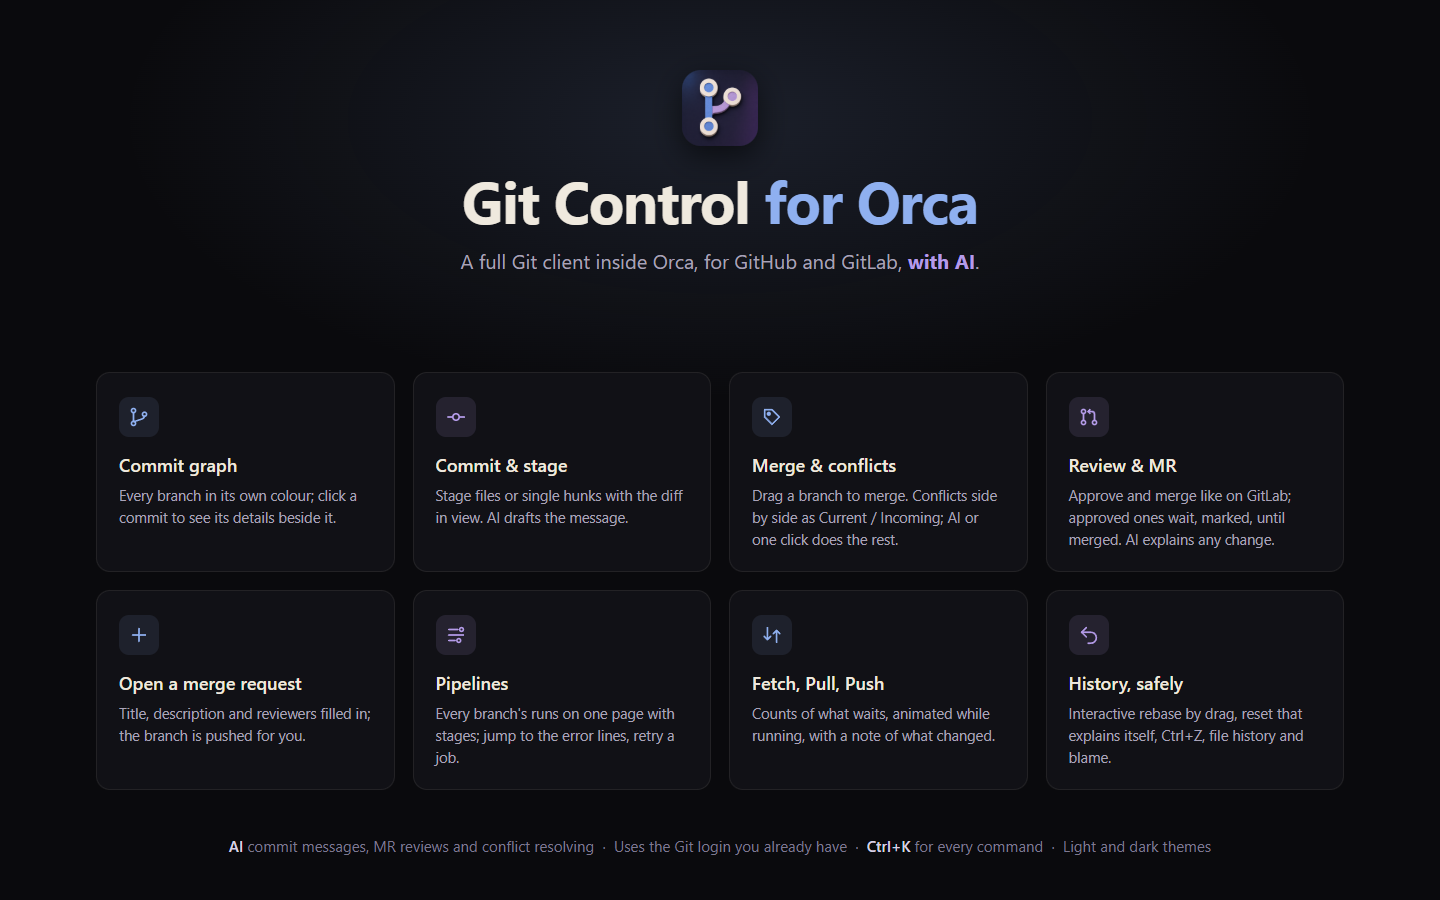
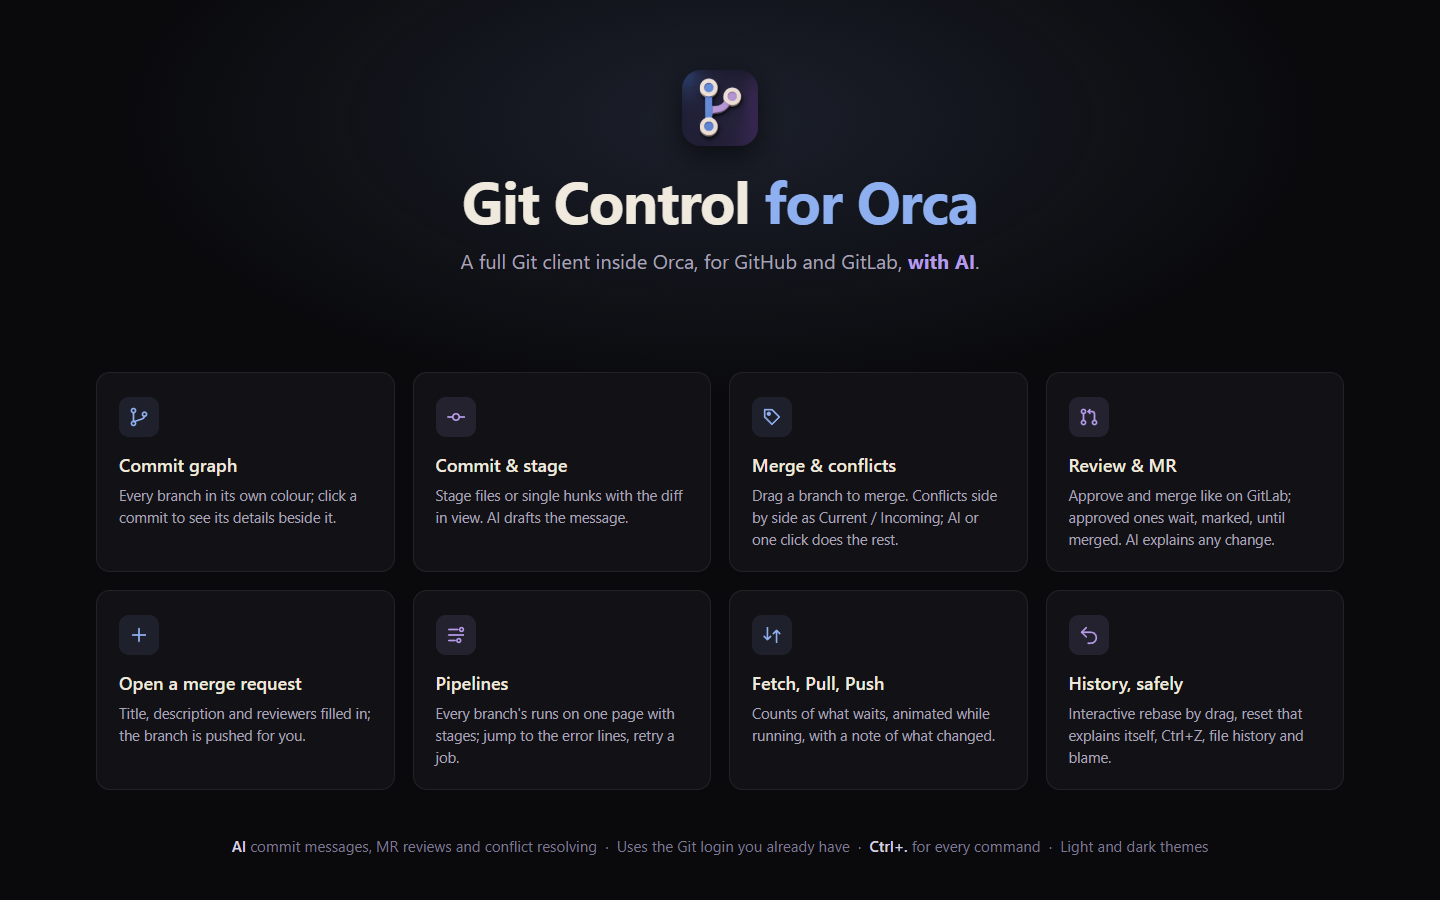
Release 0.8.11: the command palette opens with Ctrl+. instead of Ctrl+K (Ctrl+K is Orca's own shortcut); matched by the physical key so it works on any keyboard layout

Changed region(s): [[0.1562, 0.9333, 0.8438, 0.9644]]

diff --git a/panel/graph.html b/panel/graph.html
@@ -2422,7 +2422,7 @@ function renderHeader() {
     sep(),
     phoneLbl(iconBtn('refresh', 'Refresh', () => manualRefresh(), { disabled: !state.repo }), 'Refresh'),
     phoneLbl(iconBtn('undo', 'Undo the last action (commit, reset, merge, rebase…)', undoLast, { disabled: dis }), 'Undo'),
-    IN_TAB && phoneLbl(iconBtn('search', 'Commands (Ctrl+K)', () => commandPalette(), { disabled: dis }), 'Actions'),
+    IN_TAB && phoneLbl(iconBtn('search', 'Commands (Ctrl+.)', () => commandPalette(), { disabled: dis }), 'Actions'),
     phoneLbl(iconBtn('settings', 'Git settings (identity, HTTPS, remotes)', () => setTab('settings'), { disabled: !state.repo }), 'Settings'),
     !IN_TAB && iconBtn('expand', 'Open Git Control in a full tab', openTab, { disabled: dis })
   ])
@@ -8947,13 +8947,13 @@ $('#main')?.addEventListener(
   { passive: true }
 )
 
-/** ↑/↓ (or j/k) move through the graph; Enter opens; / searches; Esc closes. Ctrl+K: commands. */
+/** ↑/↓ (or j/k) move through the graph; Enter opens; / searches; Esc closes. Ctrl+.: commands (Ctrl+K belongs to Orca). */
 document.addEventListener('keydown', (e) => {
   if ((e.ctrlKey || e.metaKey) && !e.shiftKey && !e.altKey && e.key.toLowerCase() === 'z' && !e.target.closest?.('input, textarea, [contenteditable]') && !document.querySelector('.overlay, .menu') && state.repo) {
     e.preventDefault()
     return undoLast()
   }
-  if ((e.ctrlKey || e.metaKey) && !e.shiftKey && !e.altKey && e.key.toLowerCase() === 'k') {
+  if ((e.ctrlKey || e.metaKey) && !e.shiftKey && !e.altKey && (e.code === 'Period' || e.key === '.')) {
     if (!state.repo || document.querySelector('.overlay')) return
     e.preventDefault()
     return commandPalette()
@@ -9001,7 +9001,7 @@ document.addEventListener('keydown', (e) => {
 // the mouse takes over from the keyboard selection
 document.addEventListener('mousemove', () => document.querySelector('#main .commit-row.kbd')?.classList.remove('kbd'), { passive: true })
 
-/** Ctrl+K: type what to do (push, new branch, stash, a tab…) and press Enter. */
+/** Ctrl+.: type what to do (push, new branch, stash, a tab…) and press Enter. */
 function commandPalette() {
   closeOverlays()
   const st = state.status || {}
@@ -9072,7 +9072,7 @@ function commandPalette() {
 
 function shortcutsHelp() {
   const rows = [
-    ['Ctrl+K', 'Commands'],
+    ['Ctrl+.', 'Commands'],
     ['/', 'Search commits'],
     ['↑ ↓ or j k', 'Move through the graph'],
     ['Enter', 'Open the commit'],

diff --git a/panel/sidebar.html b/panel/sidebar.html
@@ -2415,7 +2415,7 @@ function renderHeader() {
     sep(),
     phoneLbl(iconBtn('refresh', 'Refresh', () => manualRefresh(), { disabled: !state.repo }), 'Refresh'),
     phoneLbl(iconBtn('undo', 'Undo the last action (commit, reset, merge, rebase…)', undoLast, { disabled: dis }), 'Undo'),
-    IN_TAB && phoneLbl(iconBtn('search', 'Commands (Ctrl+K)', () => commandPalette(), { disabled: dis }), 'Actions'),
+    IN_TAB && phoneLbl(iconBtn('search', 'Commands (Ctrl+.)', () => commandPalette(), { disabled: dis }), 'Actions'),
     phoneLbl(iconBtn('settings', 'Git settings (identity, HTTPS, remotes)', () => setTab('settings'), { disabled: !state.repo }), 'Settings'),
     !IN_TAB && iconBtn('expand', 'Open Git Control in a full tab', openTab, { disabled: dis })
   ])
@@ -8940,13 +8940,13 @@ $('#main')?.addEventListener(
   { passive: true }
 )
 
-/** ↑/↓ (or j/k) move through the graph; Enter opens; / searches; Esc closes. Ctrl+K: commands. */
+/** ↑/↓ (or j/k) move through the graph; Enter opens; / searches; Esc closes. Ctrl+.: commands (Ctrl+K belongs to Orca). */
 document.addEventListener('keydown', (e) => {
   if ((e.ctrlKey || e.metaKey) && !e.shiftKey && !e.altKey && e.key.toLowerCase() === 'z' && !e.target.closest?.('input, textarea, [contenteditable]') && !document.querySelector('.overlay, .menu') && state.repo) {
     e.preventDefault()
     return undoLast()
   }
-  if ((e.ctrlKey || e.metaKey) && !e.shiftKey && !e.altKey && e.key.toLowerCase() === 'k') {
+  if ((e.ctrlKey || e.metaKey) && !e.shiftKey && !e.altKey && (e.code === 'Period' || e.key === '.')) {
     if (!state.repo || document.querySelector('.overlay')) return
     e.preventDefault()
     return commandPalette()
@@ -8994,7 +8994,7 @@ document.addEventListener('keydown', (e) => {
 // the mouse takes over from the keyboard selection
 document.addEventListener('mousemove', () => document.querySelector('#main .commit-row.kbd')?.classList.remove('kbd'), { passive: true })
 
-/** Ctrl+K: type what to do (push, new branch, stash, a tab…) and press Enter. */
+/** Ctrl+.: type what to do (push, new branch, stash, a tab…) and press Enter. */
 function commandPalette() {
   closeOverlays()
   const st = state.status || {}
@@ -9065,7 +9065,7 @@ function commandPalette() {
 
 function shortcutsHelp() {
   const rows = [
-    ['Ctrl+K', 'Commands'],
+    ['Ctrl+.', 'Commands'],
     ['/', 'Search commits'],
     ['↑ ↓ or j k', 'Move through the graph'],
     ['Enter', 'Open the commit'],

diff --git a/panel/app.js b/panel/app.js
@@ -718,7 +718,7 @@ function renderHeader() {
     sep(),
     phoneLbl(iconBtn('refresh', 'Refresh', () => manualRefresh(), { disabled: !state.repo }), 'Refresh'),
     phoneLbl(iconBtn('undo', 'Undo the last action (commit, reset, merge, rebase…)', undoLast, { disabled: dis }), 'Undo'),
-    IN_TAB && phoneLbl(iconBtn('search', 'Commands (Ctrl+K)', () => commandPalette(), { disabled: dis }), 'Actions'),
+    IN_TAB && phoneLbl(iconBtn('search', 'Commands (Ctrl+.)', () => commandPalette(), { disabled: dis }), 'Actions'),
     phoneLbl(iconBtn('settings', 'Git settings (identity, HTTPS, remotes)', () => setTab('settings'), { disabled: !state.repo }), 'Settings'),
     !IN_TAB && iconBtn('expand', 'Open Git Control in a full tab', openTab, { disabled: dis })
   ])
@@ -7243,13 +7243,13 @@ $('#main')?.addEventListener(
   { passive: true }
 )
 
-/** ↑/↓ (or j/k) move through the graph; Enter opens; / searches; Esc closes. Ctrl+K: commands. */
+/** ↑/↓ (or j/k) move through the graph; Enter opens; / searches; Esc closes. Ctrl+.: commands (Ctrl+K belongs to Orca). */
 document.addEventListener('keydown', (e) => {
   if ((e.ctrlKey || e.metaKey) && !e.shiftKey && !e.altKey && e.key.toLowerCase() === 'z' && !e.target.closest?.('input, textarea, [contenteditable]') && !document.querySelector('.overlay, .menu') && state.repo) {
     e.preventDefault()
     return undoLast()
   }
-  if ((e.ctrlKey || e.metaKey) && !e.shiftKey && !e.altKey && e.key.toLowerCase() === 'k') {
+  if ((e.ctrlKey || e.metaKey) && !e.shiftKey && !e.altKey && (e.code === 'Period' || e.key === '.')) {
     if (!state.repo || document.querySelector('.overlay')) return
     e.preventDefault()
     return commandPalette()
@@ -7297,7 +7297,7 @@ document.addEventListener('keydown', (e) => {
 // the mouse takes over from the keyboard selection
 document.addEventListener('mousemove', () => document.querySelector('#main .commit-row.kbd')?.classList.remove('kbd'), { passive: true })
 
-/** Ctrl+K: type what to do (push, new branch, stash, a tab…) and press Enter. */
+/** Ctrl+.: type what to do (push, new branch, stash, a tab…) and press Enter. */
 function commandPalette() {
   closeOverlays()
   const st = state.status || {}
@@ -7368,7 +7368,7 @@ function commandPalette() {
 
 function shortcutsHelp() {
   const rows = [
-    ['Ctrl+K', 'Commands'],
+    ['Ctrl+.', 'Commands'],
     ['/', 'Search commits'],
     ['↑ ↓ or j k', 'Move through the graph'],
     ['Enter', 'Open the commit'],

diff --git a/README.md b/README.md
@@ -76,7 +76,7 @@ non-conflicting** merges them in one click, and **Show base** shows the file as 
 **Interactive rebase** (right-click a commit → More): drag commits to reorder; keep, reword (type the new message in
 place), squash, fixup or drop each one; a line says what the branch will look like before you start. **Reset**
 explains each kind (keep staged, keep unstaged, keep only your work, throw away) and how to get commits back.
-**Ctrl+K → Show git commands** lists the exact git commands that ran, and can show them with each action.
+**Ctrl+. → Show git commands** lists the exact git commands that ran, and can show them with each action.
 
 ### Fix a failing pipeline
 The **CI** badge next to the branch shows the latest pipeline. Click it to see the jobs by stage, open
@@ -94,7 +94,7 @@ updates by itself while runs go on, and a click opens the run's jobs and logs.
 ![The Pipelines tab with every branch's runs, their stages and who started them](assets/screenshots/pipelines.png)
 
 ### Work by keyboard
-**Ctrl+K** opens every command by name (fetch, pull, push, stash, new branch, any tab). In the graph,
+**Ctrl+.** opens every command by name (fetch, pull, push, stash, new branch, any tab). In the graph,
 ↑ ↓ (or j k) move, Enter opens, / searches and Esc closes. **Ctrl+Z** undoes the last action.
 
 ### And also
